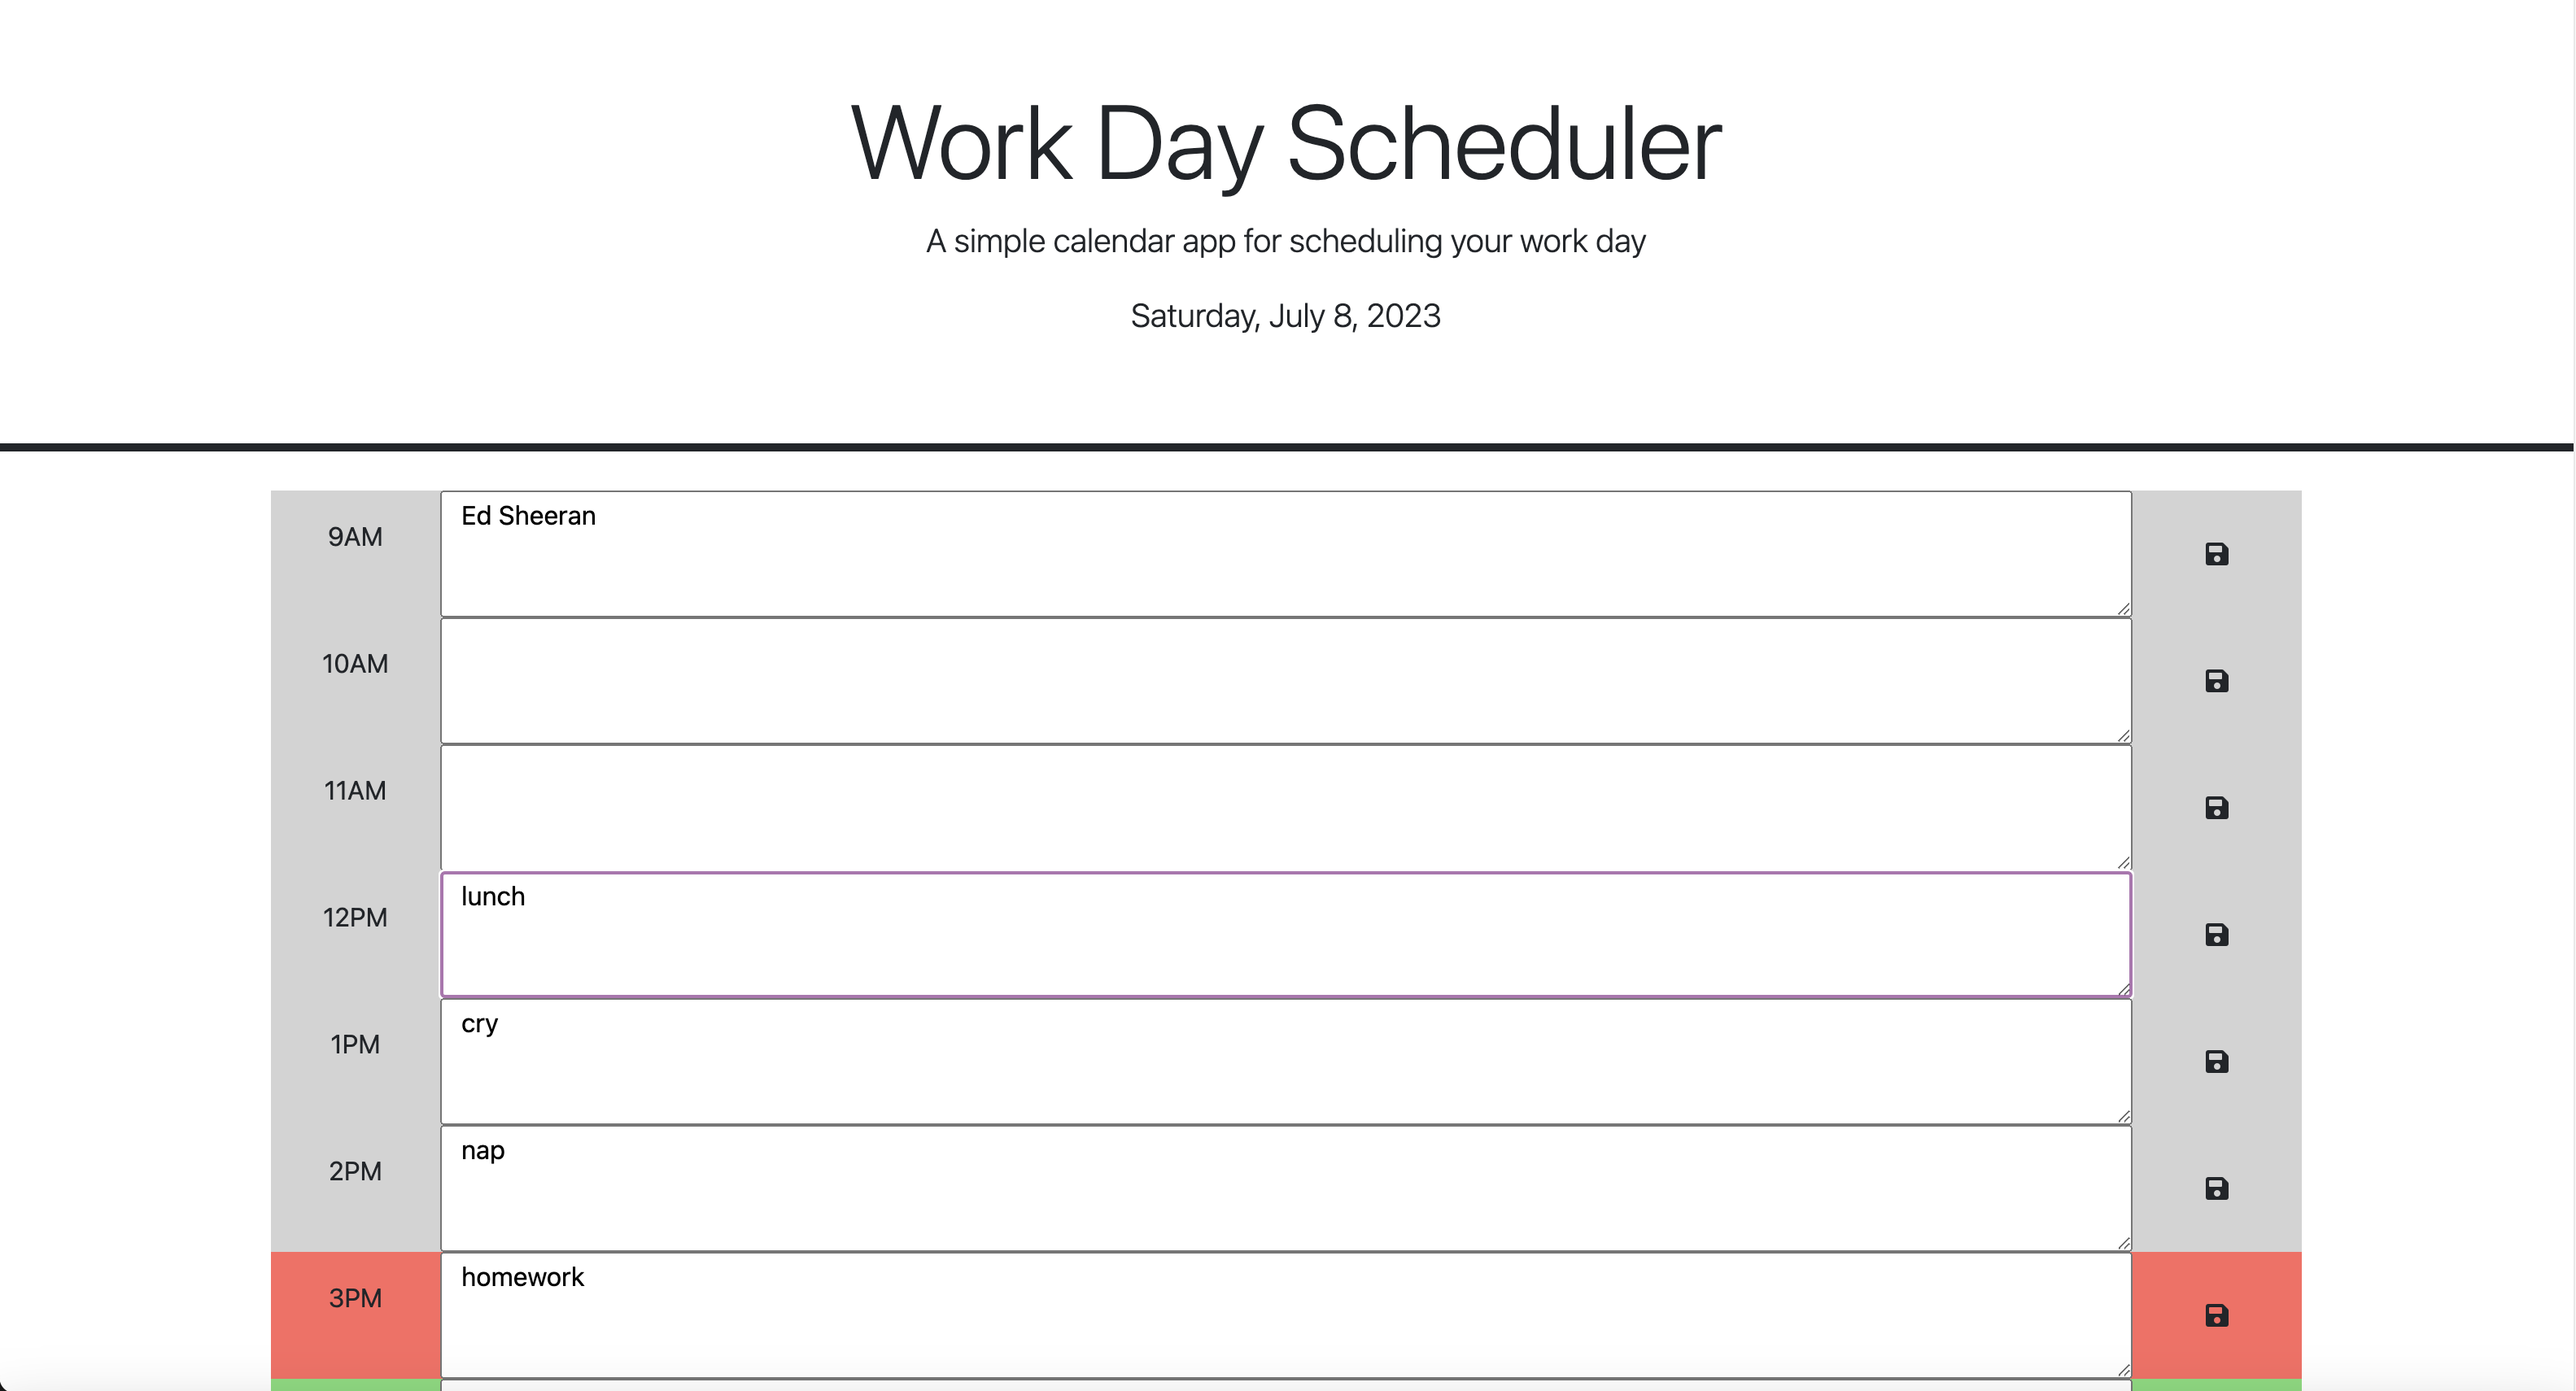
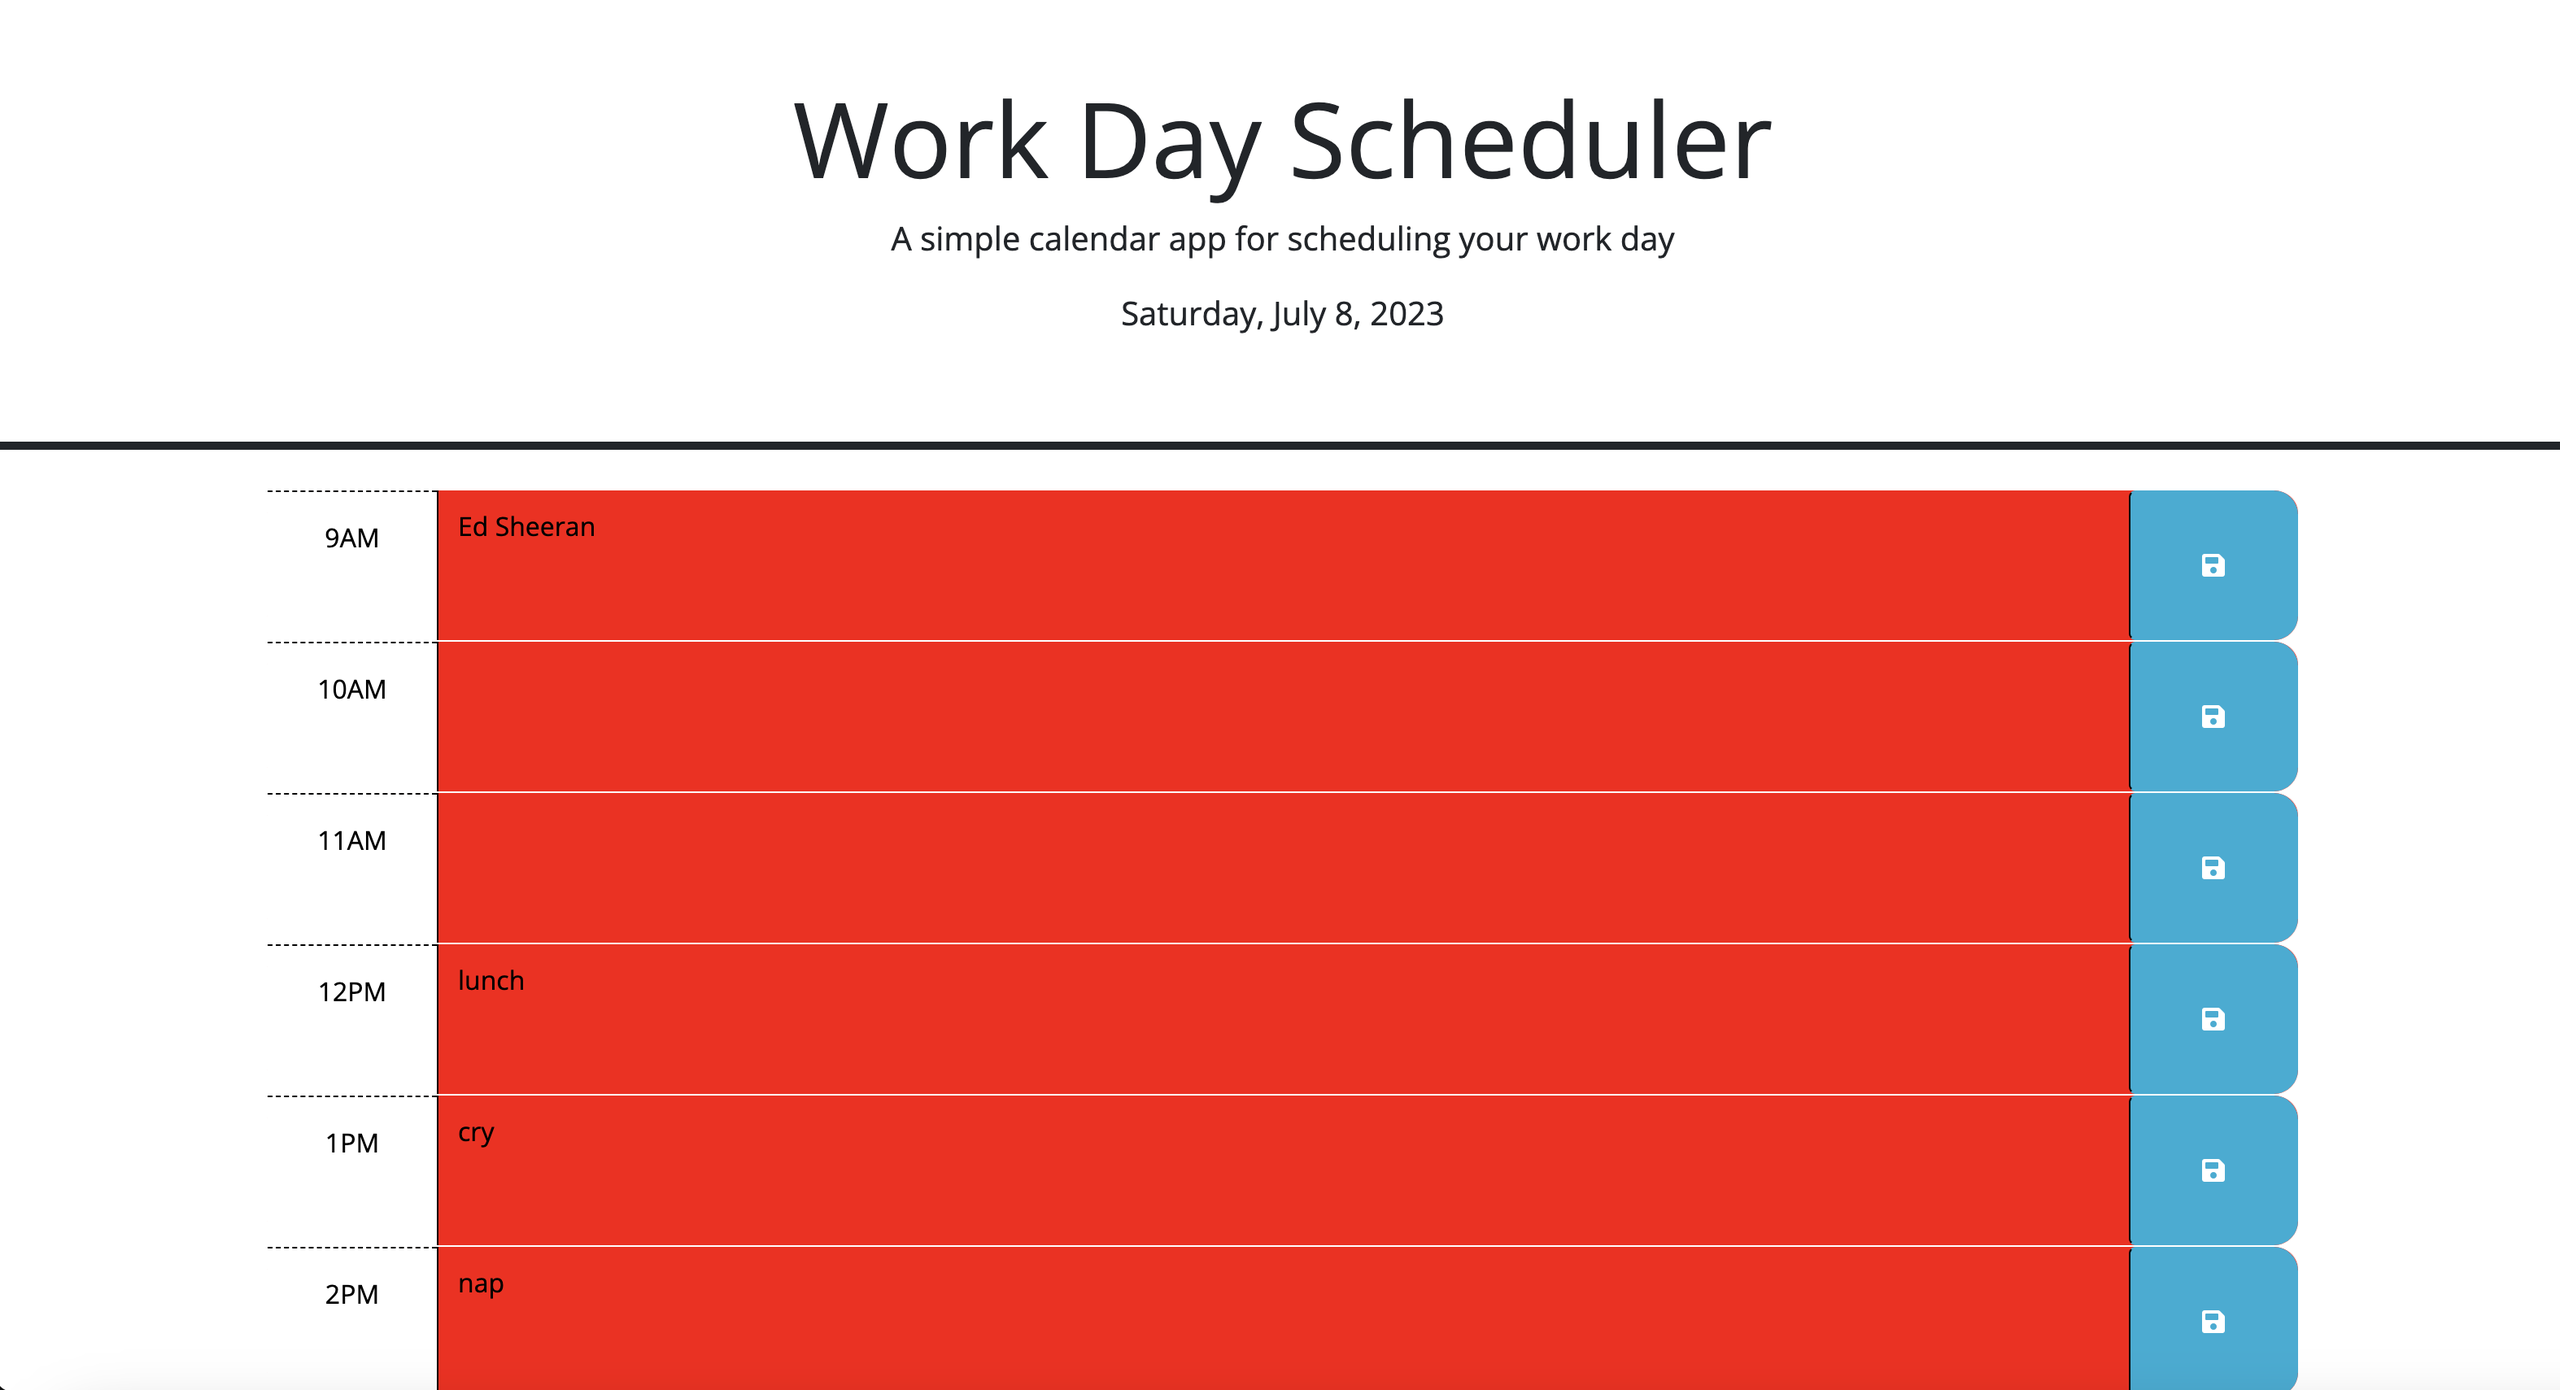
fixed link with CSS

diff --git a/index.html b/index.html
@@ -31,6 +31,7 @@
         background-color: #77dd77;
       }
     </style>
+    <link href="assets/style.css" rel="stylesheet">
     <title>Work Day Scheduler</title>
   </head>
 

diff --git a/README.md b/README.md
@@ -23,7 +23,7 @@ As mentioned above, the usage is really quite simple. Enter your scheduled event
 To add a screenshot, create an `assets/images` folder in your repository and upload your screenshot to it. Then, using the relative filepath, add it to your README using the following syntax:
 
    
-    ![save buttons](assets/images/savebuttons.png)
+    ![save buttons](assets/images/buttons.png)
     
 
     
